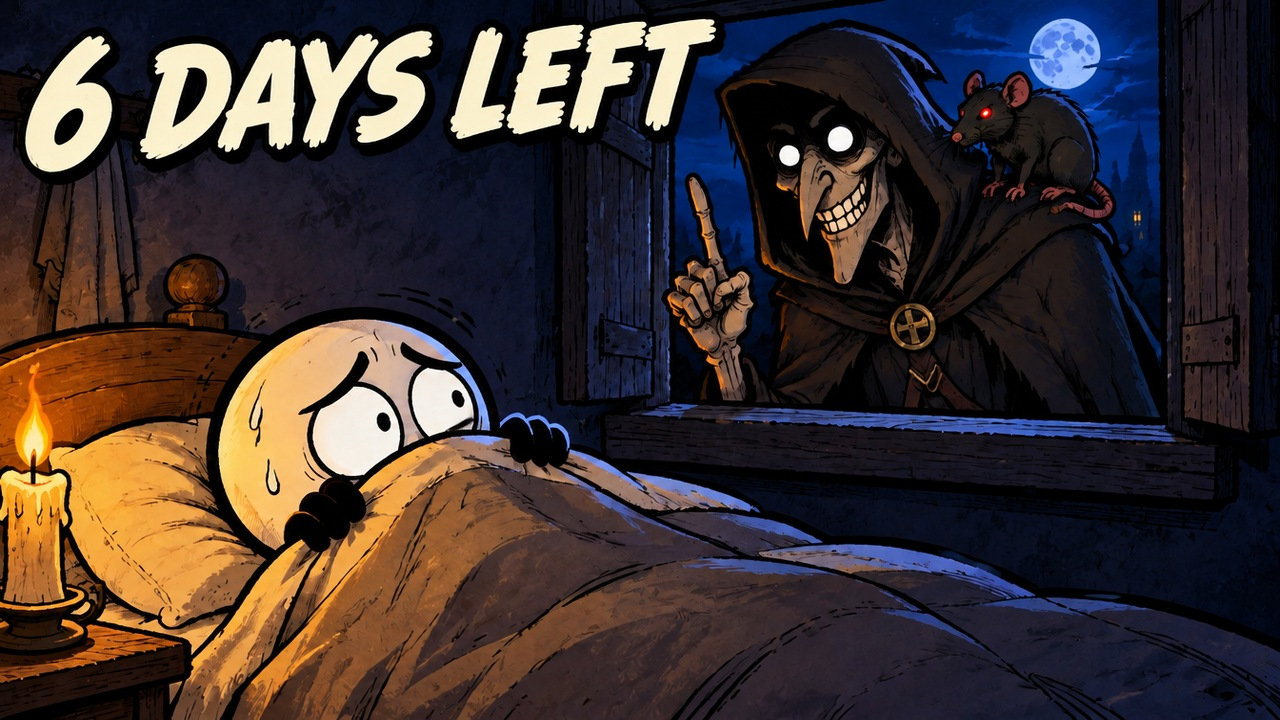
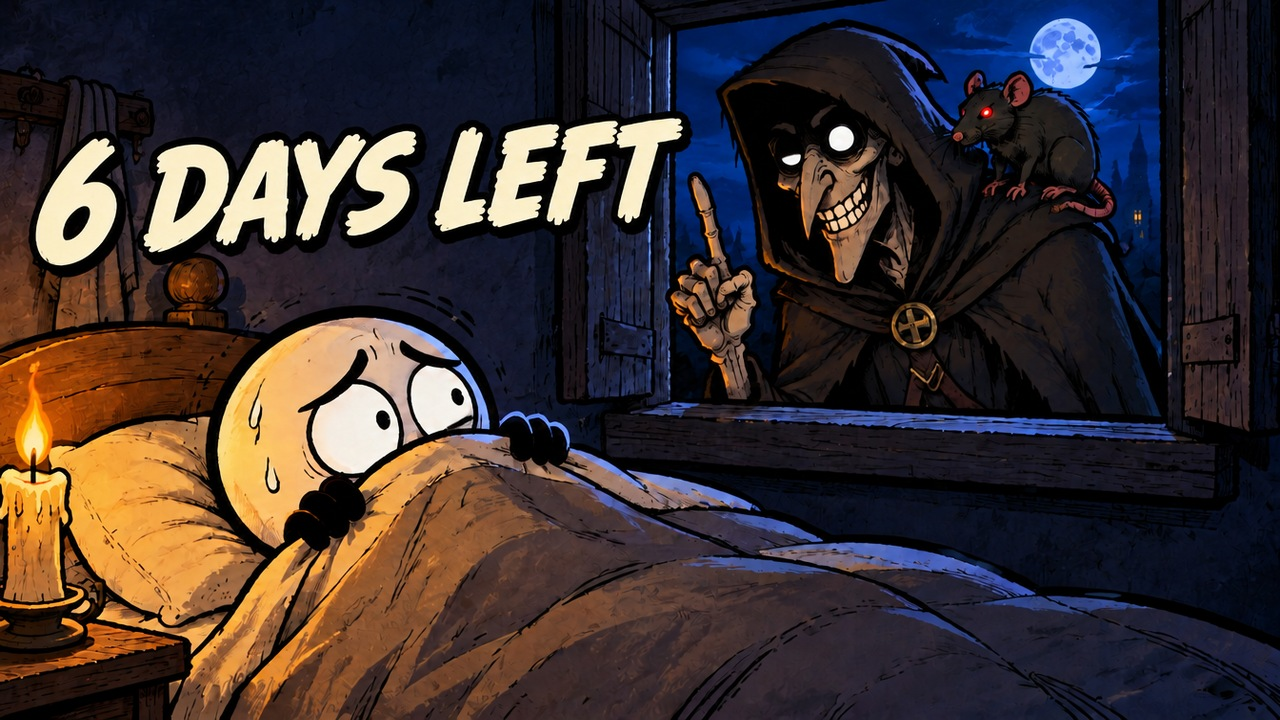
What If #2 plague: main thumbnail with the title moved lower
Claude-Session: https://claude.ai/code/session_01TNc2K2L4Uw74QswdZfAtfS

diff --git a/channel/diseases/whatif02_plague/upload/README.md b/channel/diseases/whatif02_plague/upload/README.md
@@ -1,7 +1,7 @@
 # What If #2: What Happens If You Catch the Black Death in 1348? Пакет для загрузки
 
 - Видео: `whatif02_plague.mp4` (1920×1080, 6:42, до 100 МБ).
-- Обложки 1280×720 для «Тест и сравнение»: `thumb_1_6daysleft.jpg`, `thumb_2_yourenext.jpg`, `thumb_3_deadbysunday.jpg` (одна картинка, три надписи; шрифт как у холеры). Другие сюжеты без комиксного шрифта — в `alt_thumbs/`.
+- Обложки 1280×720 для «Тест и сравнение»: главная `thumb_1_6daysleft.jpg`; для теста ещё `thumb_2_yourenext.jpg`, `thumb_3_deadbysunday.jpg` (шрифт как у холеры). Другие сюжеты без комиксного шрифта — в `alt_thumbs/`.
 - Раскрытие ИИ (Altered or synthetic content) = ДА.
 
 ## Название
